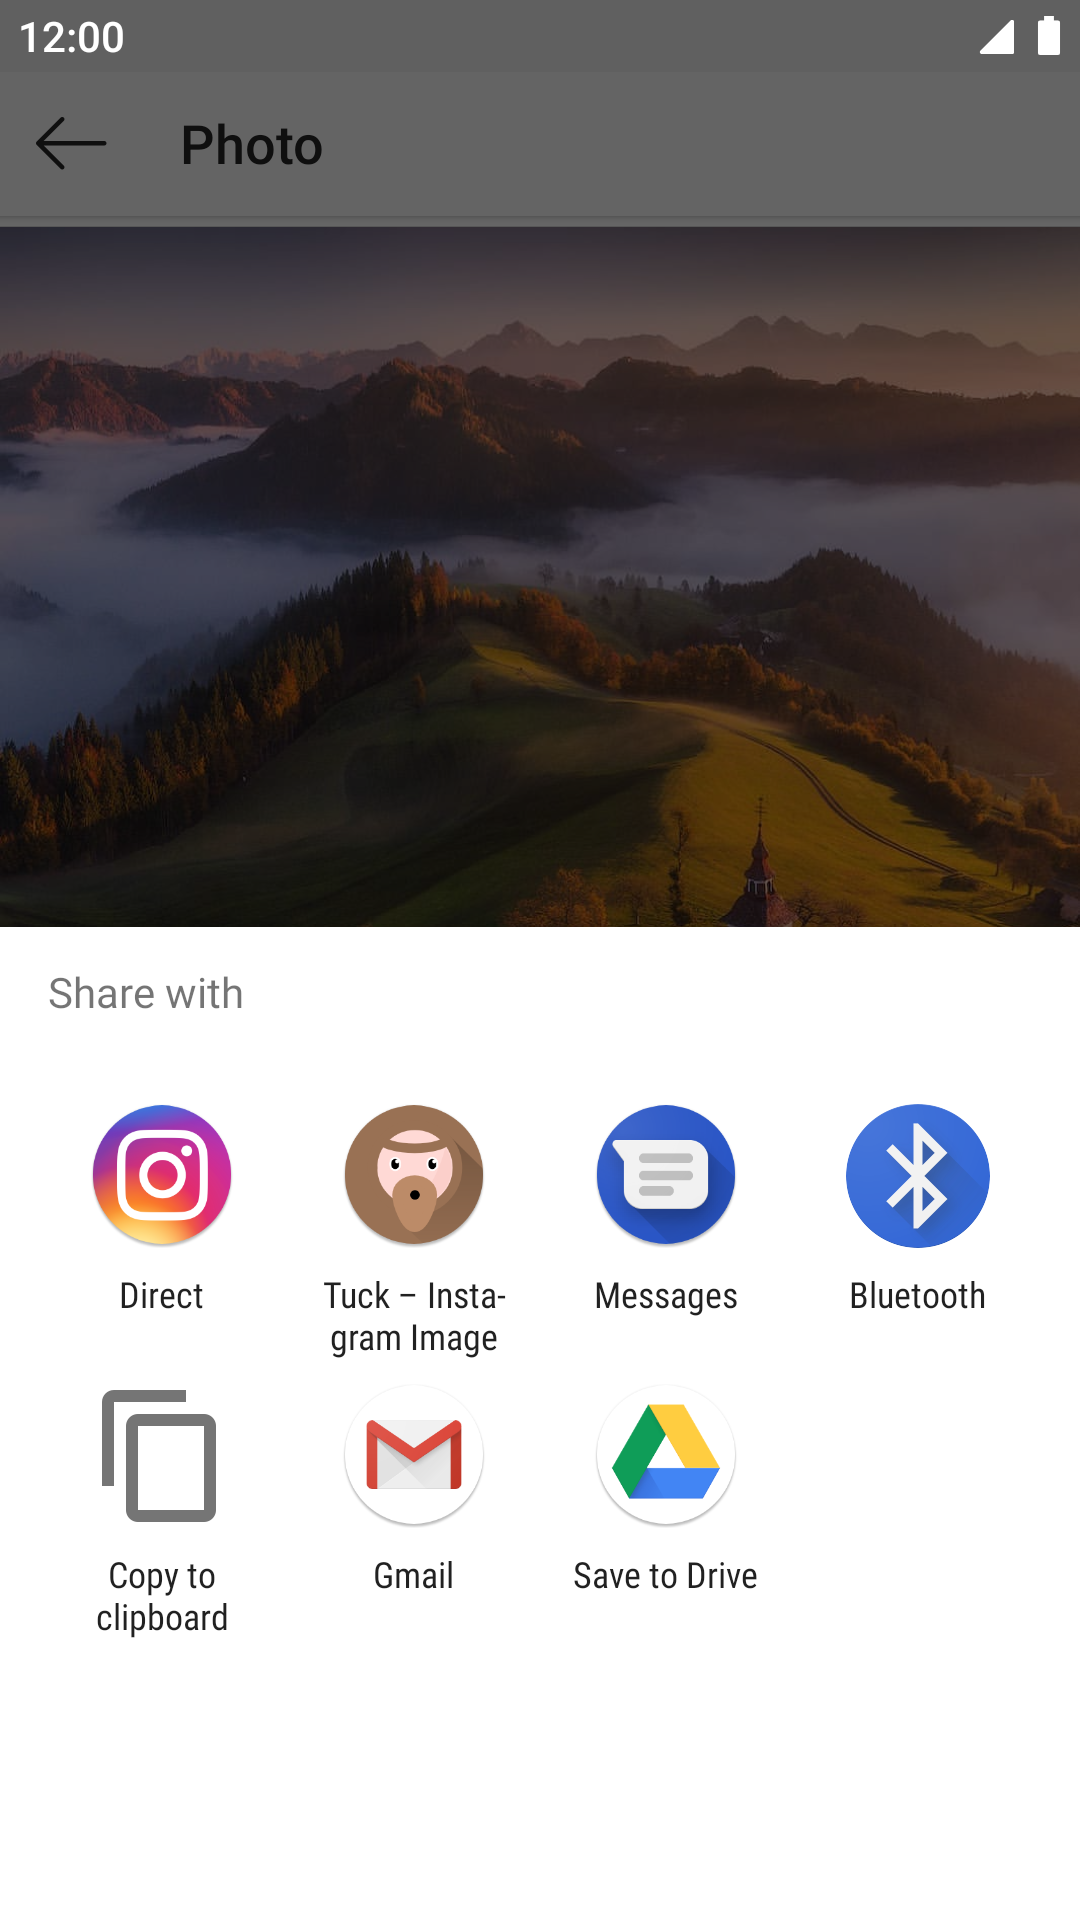
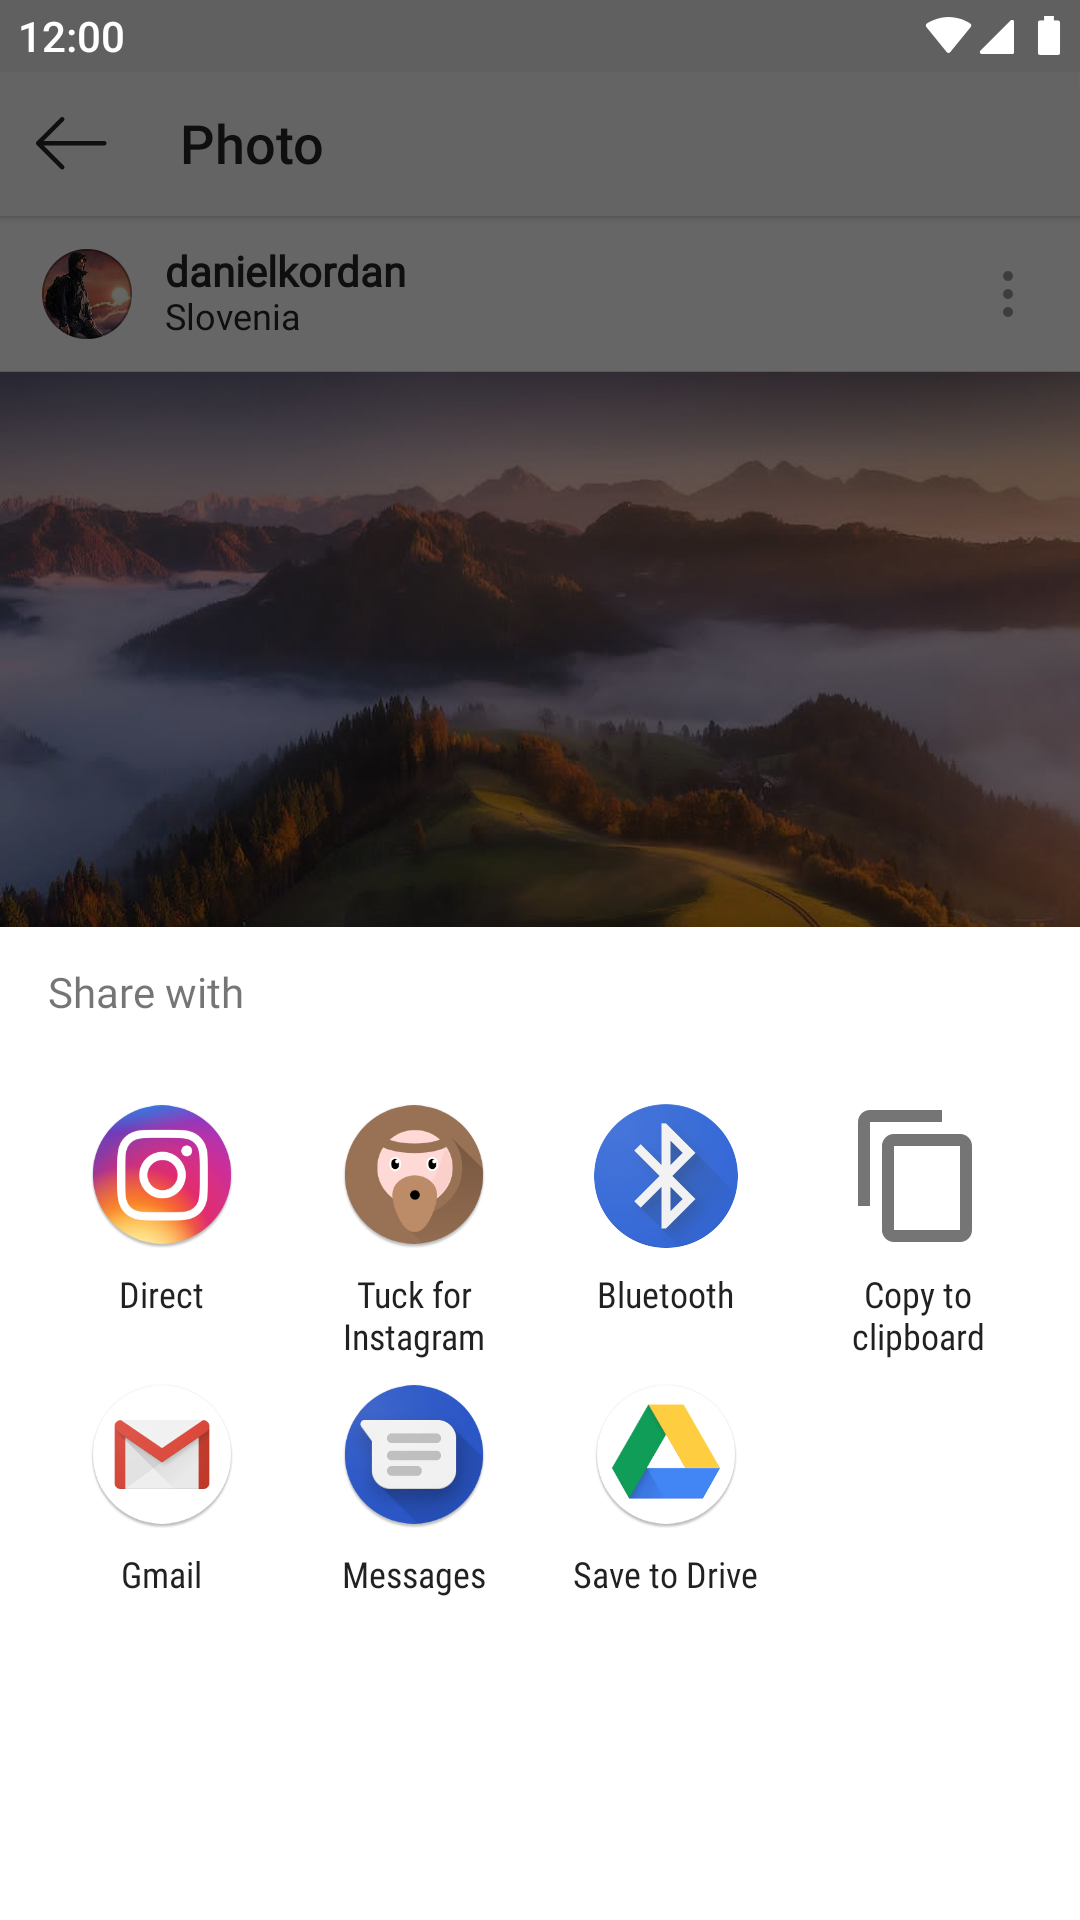
new screenshots for new app name

diff --git a/README.md b/README.md
@@ -19,7 +19,7 @@
 ### How-to
 
 1. In the Instagram app, just share the photo you like to download and select `Share via…` or `Share Link…` (Depending on Instagram version).
-2. Select `Tuck – Instagram Image Downloader` and watch the magic happen.
+2. Select `Tuck for Instagram` and watch the magic happen.
 
 
 ### Screenshots
